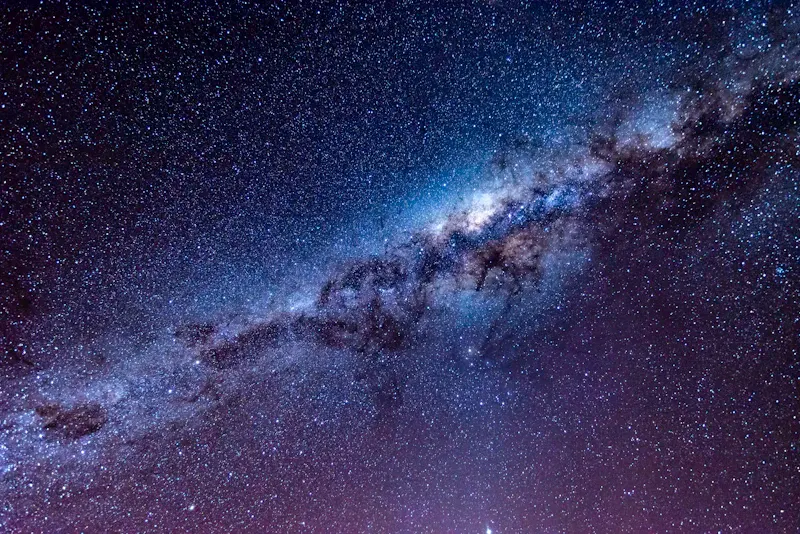
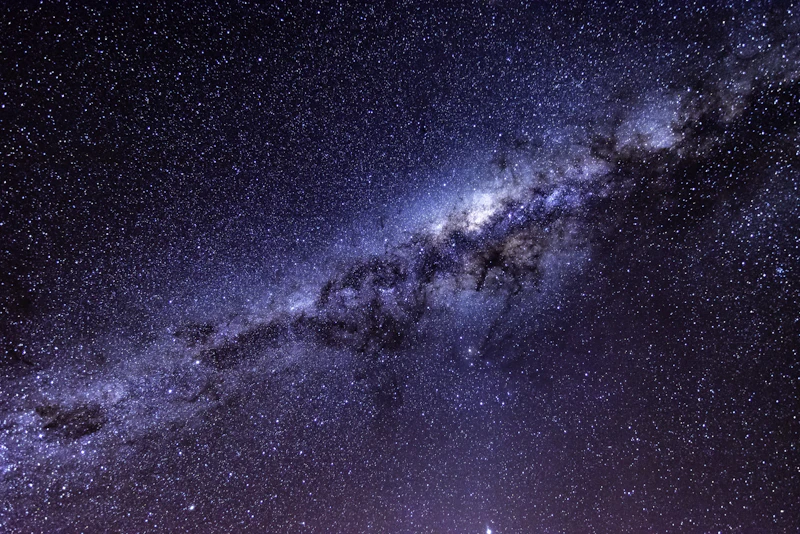
Fix missing image and srcset path inconsistencies
- Download missing photo-1538370965046-79c0d6907d47-800.webp (zellige)
- Fix srcset attributes: all sizes now have /adrar-trip/ prefix
  (spices-960/1600 and stars-960/1600 were missing the prefix)

diff --git a/ar/journal/index.html b/ar/journal/index.html
@@ -160,7 +160,7 @@
                 <!-- Card 1: Featured -->
                 <article class="article-card featured fade-in stagger-1" data-category="culture">
                     <div class="article-card-img">
-                        <img width="960" height="640" decoding="async" src="/adrar-trip/assets/images/spices-960.webp" srcset="/adrar-trip/assets/images/spices-640.webp 640w, /assets/images/spices-960.webp 960w, /assets/images/spices-1600.webp 1600w" sizes="(max-width: 640px) 100vw, (max-width: 1024px) 50vw, 40vw" alt="Colorful Moroccan spice blend ras el hanout in market" loading="lazy">
+                        <img width="960" height="640" decoding="async" src="/adrar-trip/assets/images/spices-960.webp" srcset="/adrar-trip/assets/images/spices-640.webp 640w, /adrar-trip/assets/images/spices-960.webp 960w, /adrar-trip/assets/images/spices-1600.webp 1600w" sizes="(max-width: 640px) 100vw, (max-width: 1024px) 50vw, 40vw" alt="Colorful Moroccan spice blend ras el hanout in market" loading="lazy">
                     </div>
                     <div class="article-card-body">
                         <span class="article-card-category">Culture</span>
@@ -176,7 +176,7 @@
                 <!-- Card 2 -->
                 <article class="article-card fade-in stagger-2" data-category="adventure">
                     <div class="article-card-img">
-                        <img width="960" height="640" decoding="async" loading="lazy" src="/adrar-trip/assets/images/stars-960.webp" srcset="/adrar-trip/assets/images/stars-640.webp 640w, /assets/images/stars-960.webp 960w, /assets/images/stars-1600.webp 1600w" sizes="(max-width: 640px) 100vw, (max-width: 1024px) 50vw, 40vw" alt="Sahara desert night sky with milky way">
+                        <img width="960" height="640" decoding="async" loading="lazy" src="/adrar-trip/assets/images/stars-960.webp" srcset="/adrar-trip/assets/images/stars-640.webp 640w, /adrar-trip/assets/images/stars-960.webp 960w, /adrar-trip/assets/images/stars-1600.webp 1600w" sizes="(max-width: 640px) 100vw, (max-width: 1024px) 50vw, 40vw" alt="Sahara desert night sky with milky way">
                     </div>
                     <div class="article-card-body">
                         <span class="article-card-category">Adventure</span>

diff --git a/en/journal/index.html b/en/journal/index.html
@@ -160,7 +160,7 @@
                 <!-- Card 1: Featured -->
                 <article class="article-card featured fade-in stagger-1" data-category="culture">
                     <div class="article-card-img">
-                        <img width="960" height="640" decoding="async" src="/adrar-trip/assets/images/spices-960.webp" srcset="/adrar-trip/assets/images/spices-640.webp 640w, /assets/images/spices-960.webp 960w, /assets/images/spices-1600.webp 1600w" sizes="(max-width: 640px) 100vw, (max-width: 1024px) 50vw, 40vw" alt="Colorful Moroccan spice blend ras el hanout in market" loading="lazy">
+                        <img width="960" height="640" decoding="async" src="/adrar-trip/assets/images/spices-960.webp" srcset="/adrar-trip/assets/images/spices-640.webp 640w, /adrar-trip/assets/images/spices-960.webp 960w, /adrar-trip/assets/images/spices-1600.webp 1600w" sizes="(max-width: 640px) 100vw, (max-width: 1024px) 50vw, 40vw" alt="Colorful Moroccan spice blend ras el hanout in market" loading="lazy">
                     </div>
                     <div class="article-card-body">
                         <span class="article-card-category">Culture</span>
@@ -176,7 +176,7 @@
                 <!-- Card 2 -->
                 <article class="article-card fade-in stagger-2" data-category="adventure">
                     <div class="article-card-img">
-                        <img width="960" height="640" decoding="async" loading="lazy" src="/adrar-trip/assets/images/stars-960.webp" srcset="/adrar-trip/assets/images/stars-640.webp 640w, /assets/images/stars-960.webp 960w, /assets/images/stars-1600.webp 1600w" sizes="(max-width: 640px) 100vw, (max-width: 1024px) 50vw, 40vw" alt="Sahara desert night sky with milky way">
+                        <img width="960" height="640" decoding="async" loading="lazy" src="/adrar-trip/assets/images/stars-960.webp" srcset="/adrar-trip/assets/images/stars-640.webp 640w, /adrar-trip/assets/images/stars-960.webp 960w, /adrar-trip/assets/images/stars-1600.webp 1600w" sizes="(max-width: 640px) 100vw, (max-width: 1024px) 50vw, 40vw" alt="Sahara desert night sky with milky way">
                     </div>
                     <div class="article-card-body">
                         <span class="article-card-category">Adventure</span>

diff --git a/es/journal/index.html b/es/journal/index.html
@@ -160,7 +160,7 @@
                 <!-- Card 1: Featured -->
                 <article class="article-card featured fade-in stagger-1" data-category="culture">
                     <div class="article-card-img">
-                        <img width="960" height="640" decoding="async" src="/adrar-trip/assets/images/spices-960.webp" srcset="/adrar-trip/assets/images/spices-640.webp 640w, /assets/images/spices-960.webp 960w, /assets/images/spices-1600.webp 1600w" sizes="(max-width: 640px) 100vw, (max-width: 1024px) 50vw, 40vw" alt="Colorful Moroccan spice blend ras el hanout in market" loading="lazy">
+                        <img width="960" height="640" decoding="async" src="/adrar-trip/assets/images/spices-960.webp" srcset="/adrar-trip/assets/images/spices-640.webp 640w, /adrar-trip/assets/images/spices-960.webp 960w, /adrar-trip/assets/images/spices-1600.webp 1600w" sizes="(max-width: 640px) 100vw, (max-width: 1024px) 50vw, 40vw" alt="Colorful Moroccan spice blend ras el hanout in market" loading="lazy">
                     </div>
                     <div class="article-card-body">
                         <span class="article-card-category">Culture</span>
@@ -176,7 +176,7 @@
                 <!-- Card 2 -->
                 <article class="article-card fade-in stagger-2" data-category="adventure">
                     <div class="article-card-img">
-                        <img width="960" height="640" decoding="async" loading="lazy" src="/adrar-trip/assets/images/stars-960.webp" srcset="/adrar-trip/assets/images/stars-640.webp 640w, /assets/images/stars-960.webp 960w, /assets/images/stars-1600.webp 1600w" sizes="(max-width: 640px) 100vw, (max-width: 1024px) 50vw, 40vw" alt="Sahara desert night sky with milky way">
+                        <img width="960" height="640" decoding="async" loading="lazy" src="/adrar-trip/assets/images/stars-960.webp" srcset="/adrar-trip/assets/images/stars-640.webp 640w, /adrar-trip/assets/images/stars-960.webp 960w, /adrar-trip/assets/images/stars-1600.webp 1600w" sizes="(max-width: 640px) 100vw, (max-width: 1024px) 50vw, 40vw" alt="Sahara desert night sky with milky way">
                     </div>
                     <div class="article-card-body">
                         <span class="article-card-category">Adventure</span>

diff --git a/fr/journal/index.html b/fr/journal/index.html
@@ -160,7 +160,7 @@
                 <!-- Card 1: Featured -->
                 <article class="article-card featured fade-in stagger-1" data-category="culture">
                     <div class="article-card-img">
-                        <img width="960" height="640" decoding="async" src="/adrar-trip/assets/images/spices-960.webp" srcset="/adrar-trip/assets/images/spices-640.webp 640w, /assets/images/spices-960.webp 960w, /assets/images/spices-1600.webp 1600w" sizes="(max-width: 640px) 100vw, (max-width: 1024px) 50vw, 40vw" alt="Colorful Moroccan spice blend ras el hanout in market" loading="lazy">
+                        <img width="960" height="640" decoding="async" src="/adrar-trip/assets/images/spices-960.webp" srcset="/adrar-trip/assets/images/spices-640.webp 640w, /adrar-trip/assets/images/spices-960.webp 960w, /adrar-trip/assets/images/spices-1600.webp 1600w" sizes="(max-width: 640px) 100vw, (max-width: 1024px) 50vw, 40vw" alt="Colorful Moroccan spice blend ras el hanout in market" loading="lazy">
                     </div>
                     <div class="article-card-body">
                         <span class="article-card-category">Culture</span>
@@ -176,7 +176,7 @@
                 <!-- Card 2 -->
                 <article class="article-card fade-in stagger-2" data-category="adventure">
                     <div class="article-card-img">
-                        <img width="960" height="640" decoding="async" loading="lazy" src="/adrar-trip/assets/images/stars-960.webp" srcset="/adrar-trip/assets/images/stars-640.webp 640w, /assets/images/stars-960.webp 960w, /assets/images/stars-1600.webp 1600w" sizes="(max-width: 640px) 100vw, (max-width: 1024px) 50vw, 40vw" alt="Sahara desert night sky with milky way">
+                        <img width="960" height="640" decoding="async" loading="lazy" src="/adrar-trip/assets/images/stars-960.webp" srcset="/adrar-trip/assets/images/stars-640.webp 640w, /adrar-trip/assets/images/stars-960.webp 960w, /adrar-trip/assets/images/stars-1600.webp 1600w" sizes="(max-width: 640px) 100vw, (max-width: 1024px) 50vw, 40vw" alt="Sahara desert night sky with milky way">
                     </div>
                     <div class="article-card-body">
                         <span class="article-card-category">Adventure</span>

diff --git a/ar/index.html b/ar/index.html
@@ -681,7 +681,7 @@
                 </div>
                 <div class="journal-card fade-in stagger-2">
                     <div class="journal-card-img">
-                        <img width="960" height="640" decoding="async" loading="lazy" src="/adrar-trip/assets/images/spices-960.webp" srcset="/adrar-trip/assets/images/spices-640.webp 640w, /assets/images/spices-960.webp 960w, /assets/images/spices-1600.webp 1600w" sizes="(max-width: 640px) 100vw, (max-width: 1024px) 50vw, 40vw" alt="Moroccan spice market">
+                        <img width="960" height="640" decoding="async" loading="lazy" src="/adrar-trip/assets/images/spices-960.webp" srcset="/adrar-trip/assets/images/spices-640.webp 640w, /adrar-trip/assets/images/spices-960.webp 960w, /adrar-trip/assets/images/spices-1600.webp 1600w" sizes="(max-width: 640px) 100vw, (max-width: 1024px) 50vw, 40vw" alt="Moroccan spice market">
                     </div>
                     <div class="journal-card-body">
                         <div class="journal-card-category">Culture</div>
@@ -691,7 +691,7 @@
                 </div>
                 <div class="journal-card fade-in stagger-3">
                     <div class="journal-card-img">
-                        <img width="960" height="640" decoding="async" loading="lazy" src="/adrar-trip/assets/images/stars-960.webp" srcset="/adrar-trip/assets/images/stars-640.webp 640w, /assets/images/stars-960.webp 960w, /assets/images/stars-1600.webp 1600w" sizes="(max-width: 640px) 100vw, (max-width: 1024px) 50vw, 40vw" alt="Sahara desert night sky">
+                        <img width="960" height="640" decoding="async" loading="lazy" src="/adrar-trip/assets/images/stars-960.webp" srcset="/adrar-trip/assets/images/stars-640.webp 640w, /adrar-trip/assets/images/stars-960.webp 960w, /adrar-trip/assets/images/stars-1600.webp 1600w" sizes="(max-width: 640px) 100vw, (max-width: 1024px) 50vw, 40vw" alt="Sahara desert night sky">
                     </div>
                     <div class="journal-card-body">
                         <div class="journal-card-category">Adventure</div>

diff --git a/en/index.html b/en/index.html
@@ -718,7 +718,7 @@
                 </div>
                 <div class="journal-card fade-in stagger-2">
                     <div class="journal-card-img">
-                        <img width="960" height="640" decoding="async" loading="lazy" src="/adrar-trip/assets/images/spices-960.webp" srcset="/adrar-trip/assets/images/spices-640.webp 640w, /assets/images/spices-960.webp 960w, /assets/images/spices-1600.webp 1600w" sizes="(max-width: 640px) 100vw, (max-width: 1024px) 50vw, 40vw" alt="Moroccan spice market">
+                        <img width="960" height="640" decoding="async" loading="lazy" src="/adrar-trip/assets/images/spices-960.webp" srcset="/adrar-trip/assets/images/spices-640.webp 640w, /adrar-trip/assets/images/spices-960.webp 960w, /adrar-trip/assets/images/spices-1600.webp 1600w" sizes="(max-width: 640px) 100vw, (max-width: 1024px) 50vw, 40vw" alt="Moroccan spice market">
                     </div>
                     <div class="journal-card-body">
                         <div class="journal-card-category">Culture</div>
@@ -728,7 +728,7 @@
                 </div>
                 <div class="journal-card fade-in stagger-3">
                     <div class="journal-card-img">
-                        <img width="960" height="640" decoding="async" loading="lazy" src="/adrar-trip/assets/images/stars-960.webp" srcset="/adrar-trip/assets/images/stars-640.webp 640w, /assets/images/stars-960.webp 960w, /assets/images/stars-1600.webp 1600w" sizes="(max-width: 640px) 100vw, (max-width: 1024px) 50vw, 40vw" alt="Sahara desert night sky">
+                        <img width="960" height="640" decoding="async" loading="lazy" src="/adrar-trip/assets/images/stars-960.webp" srcset="/adrar-trip/assets/images/stars-640.webp 640w, /adrar-trip/assets/images/stars-960.webp 960w, /adrar-trip/assets/images/stars-1600.webp 1600w" sizes="(max-width: 640px) 100vw, (max-width: 1024px) 50vw, 40vw" alt="Sahara desert night sky">
                     </div>
                     <div class="journal-card-body">
                         <div class="journal-card-category">Adventure</div>

diff --git a/es/index.html b/es/index.html
@@ -681,7 +681,7 @@
                 </div>
                 <div class="journal-card fade-in stagger-2">
                     <div class="journal-card-img">
-                        <img width="960" height="640" decoding="async" loading="lazy" src="/adrar-trip/assets/images/spices-960.webp" srcset="/adrar-trip/assets/images/spices-640.webp 640w, /assets/images/spices-960.webp 960w, /assets/images/spices-1600.webp 1600w" sizes="(max-width: 640px) 100vw, (max-width: 1024px) 50vw, 40vw" alt="Moroccan spice market">
+                        <img width="960" height="640" decoding="async" loading="lazy" src="/adrar-trip/assets/images/spices-960.webp" srcset="/adrar-trip/assets/images/spices-640.webp 640w, /adrar-trip/assets/images/spices-960.webp 960w, /adrar-trip/assets/images/spices-1600.webp 1600w" sizes="(max-width: 640px) 100vw, (max-width: 1024px) 50vw, 40vw" alt="Moroccan spice market">
                     </div>
                     <div class="journal-card-body">
                         <div class="journal-card-category">Culture</div>
@@ -691,7 +691,7 @@
                 </div>
                 <div class="journal-card fade-in stagger-3">
                     <div class="journal-card-img">
-                        <img width="960" height="640" decoding="async" loading="lazy" src="/adrar-trip/assets/images/stars-960.webp" srcset="/adrar-trip/assets/images/stars-640.webp 640w, /assets/images/stars-960.webp 960w, /assets/images/stars-1600.webp 1600w" sizes="(max-width: 640px) 100vw, (max-width: 1024px) 50vw, 40vw" alt="Sahara desert night sky">
+                        <img width="960" height="640" decoding="async" loading="lazy" src="/adrar-trip/assets/images/stars-960.webp" srcset="/adrar-trip/assets/images/stars-640.webp 640w, /adrar-trip/assets/images/stars-960.webp 960w, /adrar-trip/assets/images/stars-1600.webp 1600w" sizes="(max-width: 640px) 100vw, (max-width: 1024px) 50vw, 40vw" alt="Sahara desert night sky">
                     </div>
                     <div class="journal-card-body">
                         <div class="journal-card-category">Adventure</div>

diff --git a/fr/index.html b/fr/index.html
@@ -681,7 +681,7 @@
                 </div>
                 <div class="journal-card fade-in stagger-2">
                     <div class="journal-card-img">
-                        <img width="960" height="640" decoding="async" loading="lazy" src="/adrar-trip/assets/images/spices-960.webp" srcset="/adrar-trip/assets/images/spices-640.webp 640w, /assets/images/spices-960.webp 960w, /assets/images/spices-1600.webp 1600w" sizes="(max-width: 640px) 100vw, (max-width: 1024px) 50vw, 40vw" alt="Moroccan spice market">
+                        <img width="960" height="640" decoding="async" loading="lazy" src="/adrar-trip/assets/images/spices-960.webp" srcset="/adrar-trip/assets/images/spices-640.webp 640w, /adrar-trip/assets/images/spices-960.webp 960w, /adrar-trip/assets/images/spices-1600.webp 1600w" sizes="(max-width: 640px) 100vw, (max-width: 1024px) 50vw, 40vw" alt="Moroccan spice market">
                     </div>
                     <div class="journal-card-body">
                         <div class="journal-card-category">Culture</div>
@@ -691,7 +691,7 @@
                 </div>
                 <div class="journal-card fade-in stagger-3">
                     <div class="journal-card-img">
-                        <img width="960" height="640" decoding="async" loading="lazy" src="/adrar-trip/assets/images/stars-960.webp" srcset="/adrar-trip/assets/images/stars-640.webp 640w, /assets/images/stars-960.webp 960w, /assets/images/stars-1600.webp 1600w" sizes="(max-width: 640px) 100vw, (max-width: 1024px) 50vw, 40vw" alt="Sahara desert night sky">
+                        <img width="960" height="640" decoding="async" loading="lazy" src="/adrar-trip/assets/images/stars-960.webp" srcset="/adrar-trip/assets/images/stars-640.webp 640w, /adrar-trip/assets/images/stars-960.webp 960w, /adrar-trip/assets/images/stars-1600.webp 1600w" sizes="(max-width: 640px) 100vw, (max-width: 1024px) 50vw, 40vw" alt="Sahara desert night sky">
                     </div>
                     <div class="journal-card-body">
                         <div class="journal-card-category">Adventure</div>
